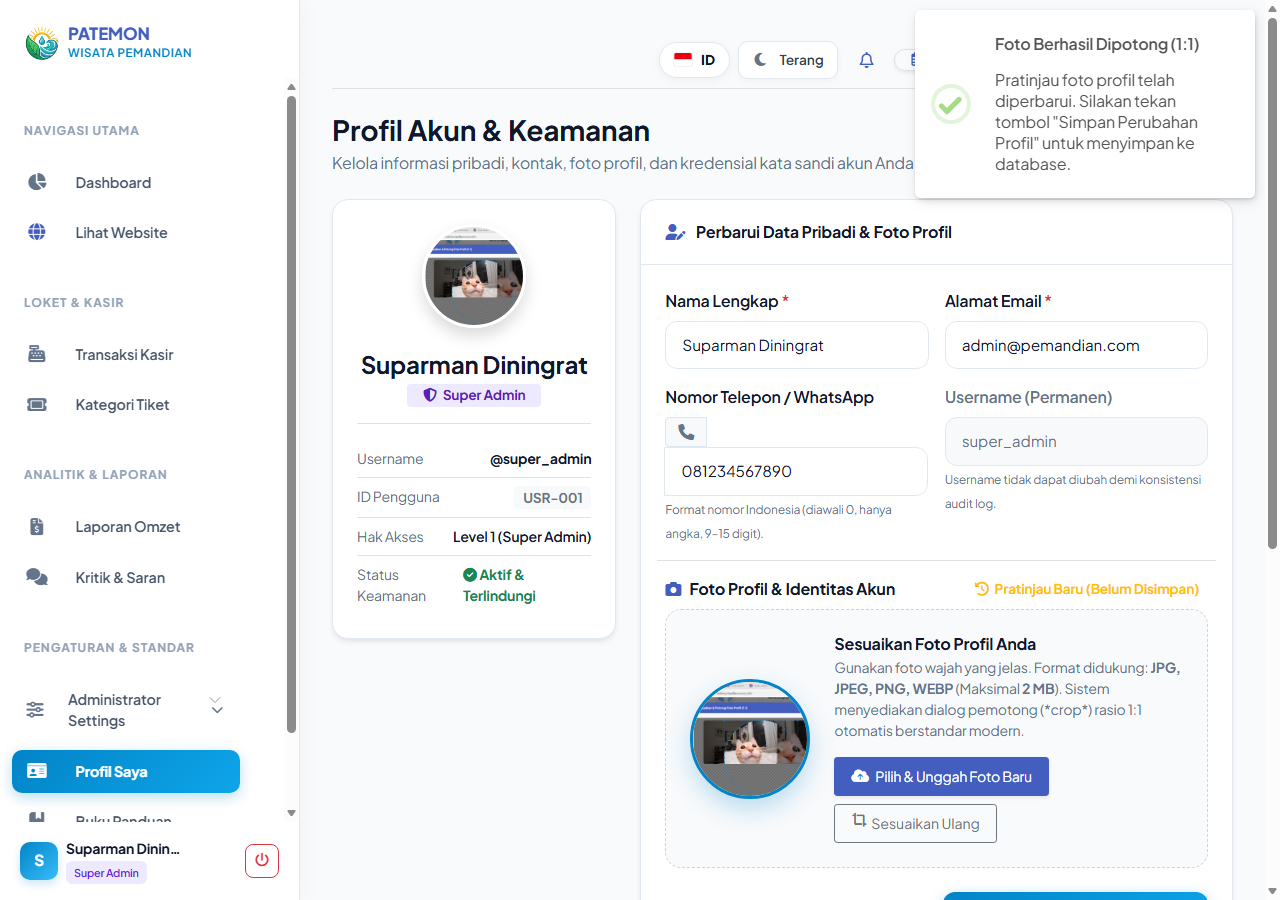
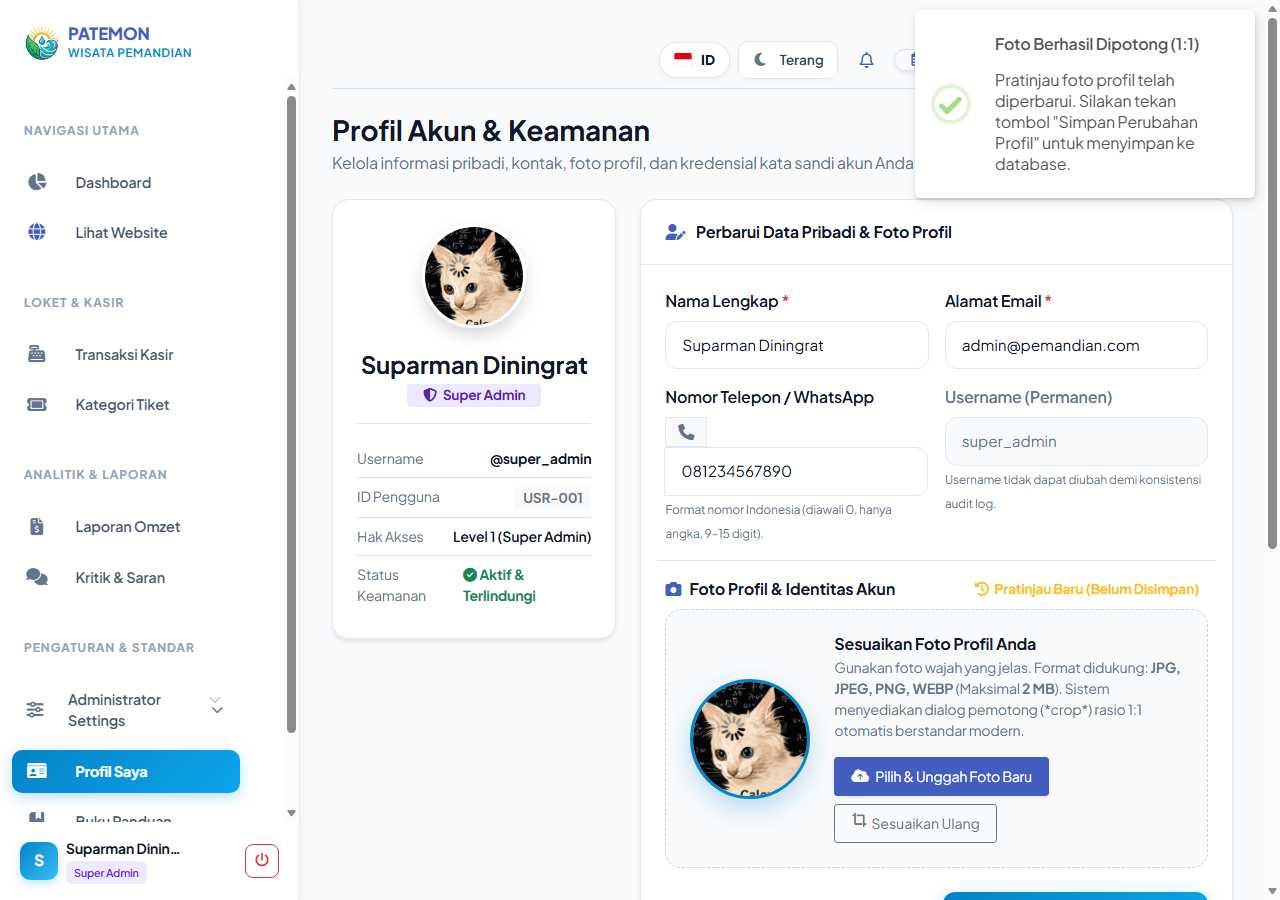
docs(profile): use cat thinking image for crop feature preview in README

Changed region(s): [[0.5312, 0.7467, 0.625, 0.9022], [0.3125, 0.2489, 0.4062, 0.3733]]

diff --git a/tests/test_cropper_visual.py b/tests/test_cropper_visual.py
@@ -10,7 +10,7 @@ EDGE_PATH = r"C:\Program Files (x86)\Microsoft\Edge\Application\msedge.exe"
 USER_DATA_DIR = os.path.join(os.environ.get("LOCALAPPDATA", "C:\\Temp"), "edge_test_profile_visual")
 PORT = 9223
 BASE_URL = "http://127.0.0.1:8000"
-SAMPLE_CAT_IMG = r"C:\Users\aiyub\AppData\Roaming\Hermes\composer-images\image_f77a15.png"
+SAMPLE_CAT_IMG = r"C:\Users\aiyub\Downloads\cat thinking.jpg"
 
 async def send_cmd(ws, msg_id, method, params=None):
     payload = {"id": msg_id, "method": method}
@@ -114,7 +114,7 @@ async def main():
                 import base64
                 with open(SAMPLE_CAT_IMG, "rb") as f:
                     cat_b64 = base64.b64encode(f.read()).decode("utf-8")
-                mime_type = "image/png"
+                mime_type = "image/jpeg" if SAMPLE_CAT_IMG.lower().endswith((".jpg", ".jpeg")) else "image/png"
             else:
                 cat_b64 = ""
                 mime_type = "image/jpeg"
@@ -131,34 +131,76 @@ async def main():
                         }}
                         const byteArray = new Uint8Array(byteNums);
                         const blob = new Blob([byteArray], {{ type: "{mime_type}" }});
-                        const file = new File([blob], 'user_cat_sample.png', {{ type: "{mime_type}" }});
+                        const file = new File([blob], 'cat_thinking.jpg', {{ type: "{mime_type}" }});
                         const dt = new DataTransfer();
                         dt.items.add(file);
                         const input = document.getElementById('avatarInput');
                         input.files = dt.files;
                         input.dispatchEvent(new Event('change', {{ bubbles: true }}));
-                    }} else {{
-                        const c = document.createElement('canvas');
-                        c.width = 640;
-                        c.height = 400;
-                        const ctx = c.getContext('2d');
-                        ctx.fillStyle = '#0f172a';
-                        ctx.fillRect(0, 0, 640, 400);
-                        c.toBlob(blob => {{
-                            const file = new File([blob], 'sample.jpg', {{ type: 'image/jpeg' }});
-                            const dt = new DataTransfer();
-                            dt.items.add(file);
-                            const input = document.getElementById('avatarInput');
-                            input.files = dt.files;
-                            input.dispatchEvent(new Event('change', {{ bubbles: true }}));
-                        }});
                     }}
                 }})()
             """); msg_id += 1
 
             await asyncio.sleep(2)
 
-            # 4. Verifikasi Single-Image Backdrop & Transparent Lens di DOM
+            # 4. Uji tombol preset ukuran lensa (Kecil, Sedang, Maksimal)
+            print("\n▶ Menguji preset ukuran lensa...")
+            test_sizes = await evaluate(ws, msg_id, """
+                (() => {
+                    const lens = document.getElementById('cropLens');
+                    const btnSm = document.getElementById('btnLensSizeSm');
+                    const btnLg = document.getElementById('btnLensSizeLg');
+                    
+                    btnSm.click();
+                    const smSize = lens.offsetWidth;
+
+                    btnLg.click();
+                    const lgSize = lens.offsetWidth;
+
+                    // Kembalikan ke sedang
+                    document.getElementById('btnLensSizeMd').click();
+                    const mdSize = lens.offsetWidth;
+
+                    return { smSize, mdSize, lgSize };
+                })()
+            """); msg_id += 1
+            print(f"  Preset Ukuran Lensa: {json.dumps(test_sizes, indent=2)}")
+
+            # 5. Posisikan lensa secara presisi membingkai kepala & wajah kucing berpikir
+            print("\n▶ Menggeser lensa bidik tepat di wajah kucing berpikir...")
+            await evaluate(ws, msg_id, """
+                (() => {
+                    const lens = document.getElementById('cropLens');
+                    const img = document.getElementById('cropWallpaperImg');
+                    if (!lens || !img) return;
+
+                    const stageW = img.offsetWidth;
+                    const stageH = img.offsetHeight;
+
+                    // Gunakan preset sedang (~160px)
+                    document.getElementById('btnLensSizeMd').click();
+
+                    // Wajah kucing berada di koordinat ~70% horizontal, ~45% vertikal
+                    const curLensSize = lens.offsetWidth;
+                    const targetX = Math.round(stageW * 0.70 - curLensSize / 2);
+                    const targetY = Math.round(stageH * 0.45 - curLensSize / 2);
+
+                    const rect = lens.getBoundingClientRect();
+                    const startX = rect.left + rect.width / 2;
+                    const startY = rect.top + rect.height / 2;
+
+                    lens.dispatchEvent(new PointerEvent('pointerdown', { clientX: startX, clientY: startY, bubbles: true }));
+                    lens.dispatchEvent(new PointerEvent('pointermove', { 
+                        clientX: startX + (targetX - (rect.left - img.getBoundingClientRect().left)), 
+                        clientY: startY + (targetY - (rect.top - img.getBoundingClientRect().top)), 
+                        bubbles: true 
+                    }));
+                    lens.dispatchEvent(new PointerEvent('pointerup', { bubbles: true }));
+                })()
+            """); msg_id += 1
+            await asyncio.sleep(0.5)
+
+            # Verifikasi Single-Image Backdrop & Transparent Lens di DOM
             lens_metrics = await evaluate(ws, msg_id, """
                 (() => {
                     const modal = document.getElementById('modalCropAvatar');
@@ -186,31 +228,8 @@ async def main():
             """); msg_id += 1
             print(f"  Metrik Transparent Lens Viewfinder: {json.dumps(lens_metrics, indent=2)}")
 
-            # Simpan screenshot modal crop single-backdrop
+            # Simpan screenshot modal crop dengan lensa membingkai wajah kucing berpikir
             await take_screenshot(ws, msg_id, "docs/screenshots/modal_crop_v2.png"); msg_id += 1
-
-            # 5. Uji tombol preset ukuran lensa (Kecil, Sedang, Maksimal)
-            print("\n▶ Menguji preset ukuran lensa...")
-            test_sizes = await evaluate(ws, msg_id, """
-                (() => {
-                    const lens = document.getElementById('cropLens');
-                    const btnSm = document.getElementById('btnLensSizeSm');
-                    const btnLg = document.getElementById('btnLensSizeLg');
-                    
-                    btnSm.click();
-                    const smSize = lens.offsetWidth;
-
-                    btnLg.click();
-                    const lgSize = lens.offsetWidth;
-
-                    // Kembalikan ke sedang
-                    document.getElementById('btnLensSizeMd').click();
-                    const mdSize = lens.offsetWidth;
-
-                    return { smSize, mdSize, lgSize };
-                })()
-            """); msg_id += 1
-            print(f"  Preset Ukuran Lensa: {json.dumps(test_sizes, indent=2)}")
 
             # 6. Terapkan Crop
             print("\n▶ Menekan Selesai & Terapkan Foto...")
